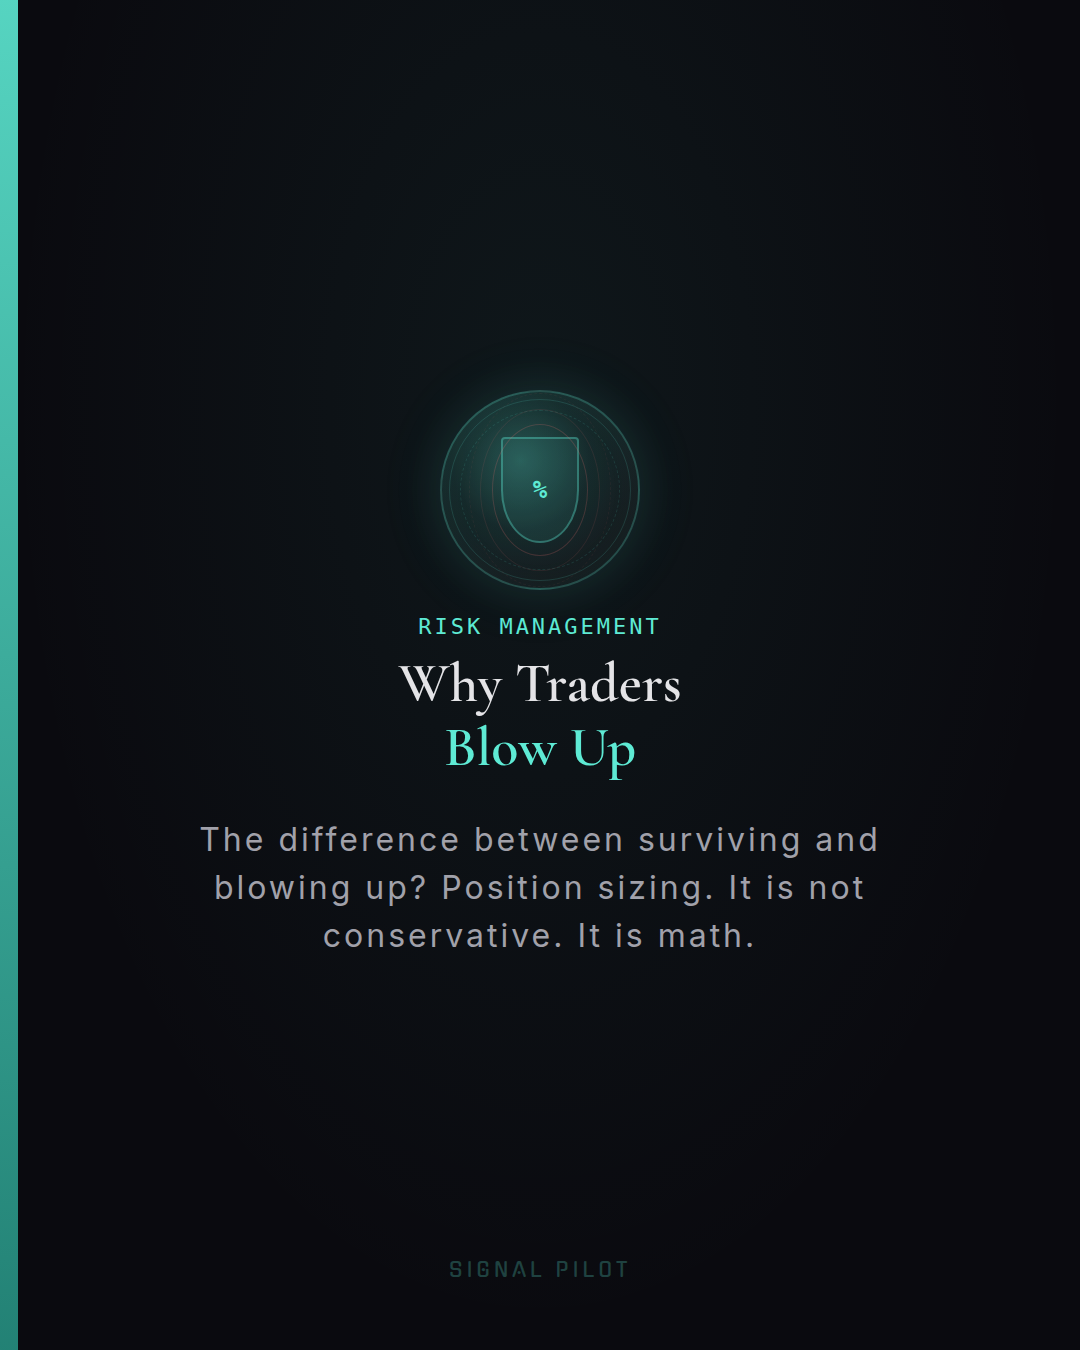
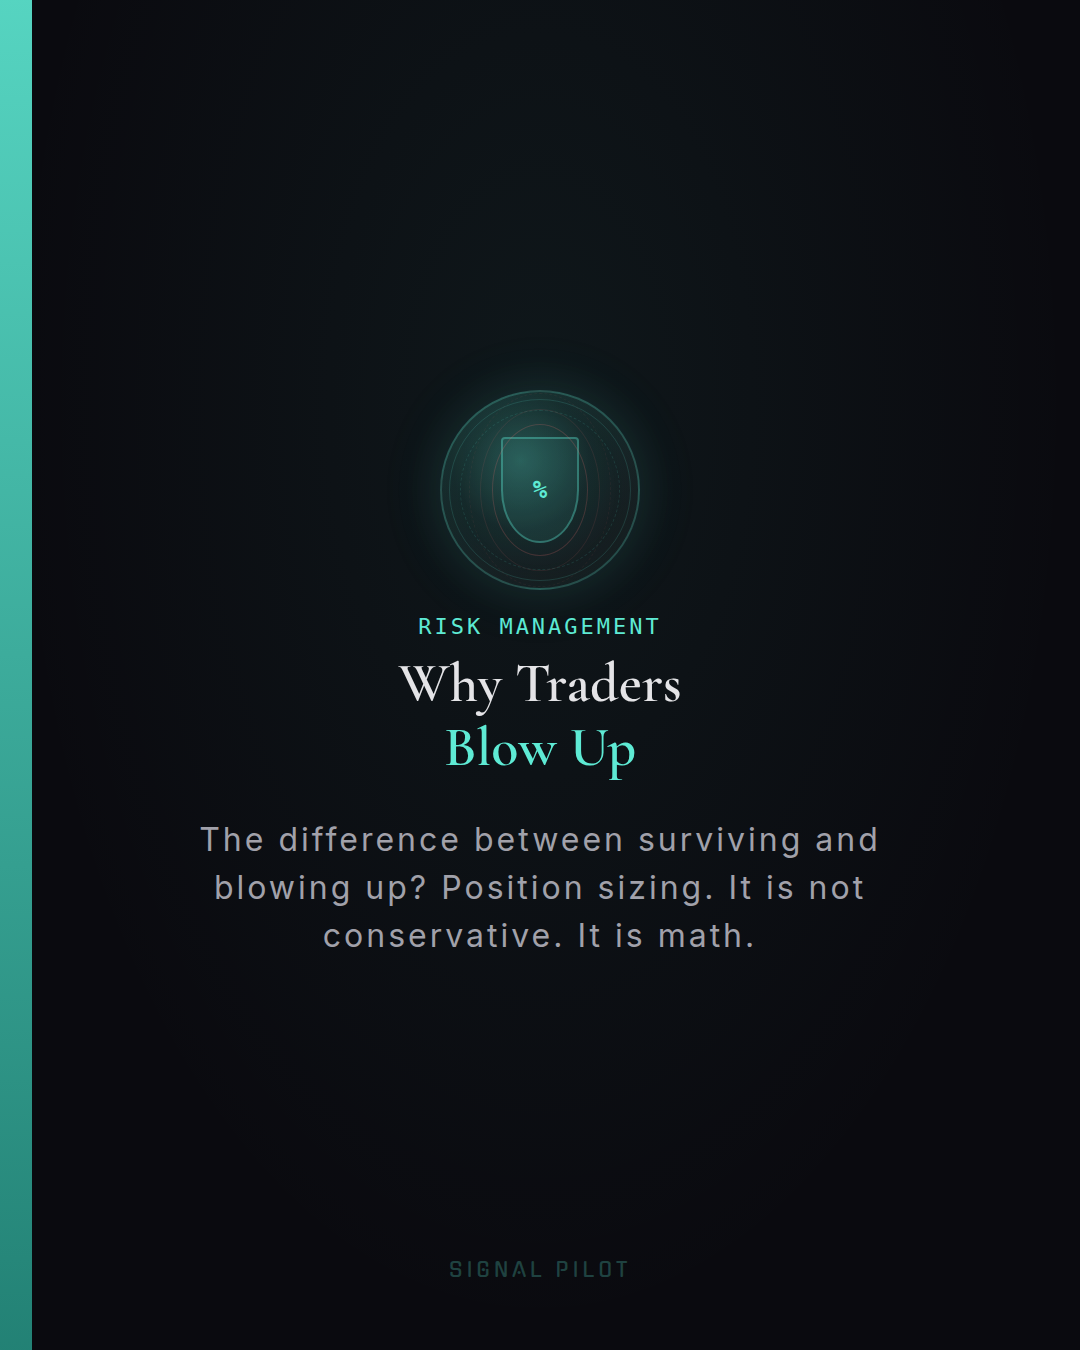
Thicken slide-1 column lines (18px→32px) for posts 033, 035 + re-rendered PNGs
https://claude.ai/code/session_011gVZZQoetPmCJjDwuDyeN6

Changed region(s): [[0.0, 0.0, 0.0306, 1.0]]

diff --git a/INSTAGRAM_CONTENT_HUB/social/post-033/carousel.html b/INSTAGRAM_CONTENT_HUB/social/post-033/carousel.html
@@ -43,7 +43,7 @@ body{background:var(--bg);color:var(--txt);font-family:var(--sans);min-height:10
 /* ── Slide Backgrounds (teal theme) ── */
 .slide-wrapper::before{content:'';position:absolute;inset:0;z-index:1;pointer-events:none;}
 .s1::before{background:radial-gradient(ellipse at 50% 30%,rgba(94,234,212,0.06) 0%,transparent 70%);}
-.s1::after{content:'';position:absolute;top:0;left:0;width:18px;height:100%;background:linear-gradient(180deg,rgba(94,234,212,0.9) 0%,rgba(45,180,160,0.7) 100%);z-index:5;}
+.s1::after{content:'';position:absolute;top:0;left:0;width:32px;height:100%;background:linear-gradient(180deg,rgba(94,234,212,0.9) 0%,rgba(45,180,160,0.7) 100%);z-index:5;}
 .s2::before{background:radial-gradient(ellipse at 30% 60%,rgba(248,113,113,0.04) 0%,transparent 65%);}
 .s3::before{background:radial-gradient(ellipse at 70% 40%,rgba(94,234,212,0.04) 0%,transparent 65%);}
 .s4::before{background:radial-gradient(ellipse at 50% 70%,rgba(94,234,212,0.04) 0%,transparent 65%);}

diff --git a/INSTAGRAM_CONTENT_HUB/social/post-035/carousel.html b/INSTAGRAM_CONTENT_HUB/social/post-035/carousel.html
@@ -45,7 +45,7 @@ body{background:var(--bg);color:var(--txt);font-family:var(--sans);min-height:10
 /* ── Slide Backgrounds ── */
 .slide-wrapper::before{content:'';position:absolute;inset:0;z-index:1;pointer-events:none;}
 .s1::before{background:radial-gradient(ellipse at 50% 30%,rgba(245,158,11,0.06) 0%,transparent 70%);}
-.s1::after{content:'';position:absolute;top:0;right:0;width:18px;height:100%;background:linear-gradient(180deg,rgba(245,158,11,0.9) 0%,rgba(217,148,74,0.7) 100%);z-index:5;}
+.s1::after{content:'';position:absolute;top:0;right:0;width:32px;height:100%;background:linear-gradient(180deg,rgba(245,158,11,0.9) 0%,rgba(217,148,74,0.7) 100%);z-index:5;}
 .s2::before{background:radial-gradient(ellipse at 30% 60%,rgba(245,158,11,0.04) 0%,transparent 65%);}
 .s3::before{background:radial-gradient(ellipse at 70% 40%,rgba(245,158,11,0.04) 0%,transparent 65%);}
 .s4::before{background:radial-gradient(ellipse at 50% 70%,rgba(245,158,11,0.04) 0%,transparent 65%);}
